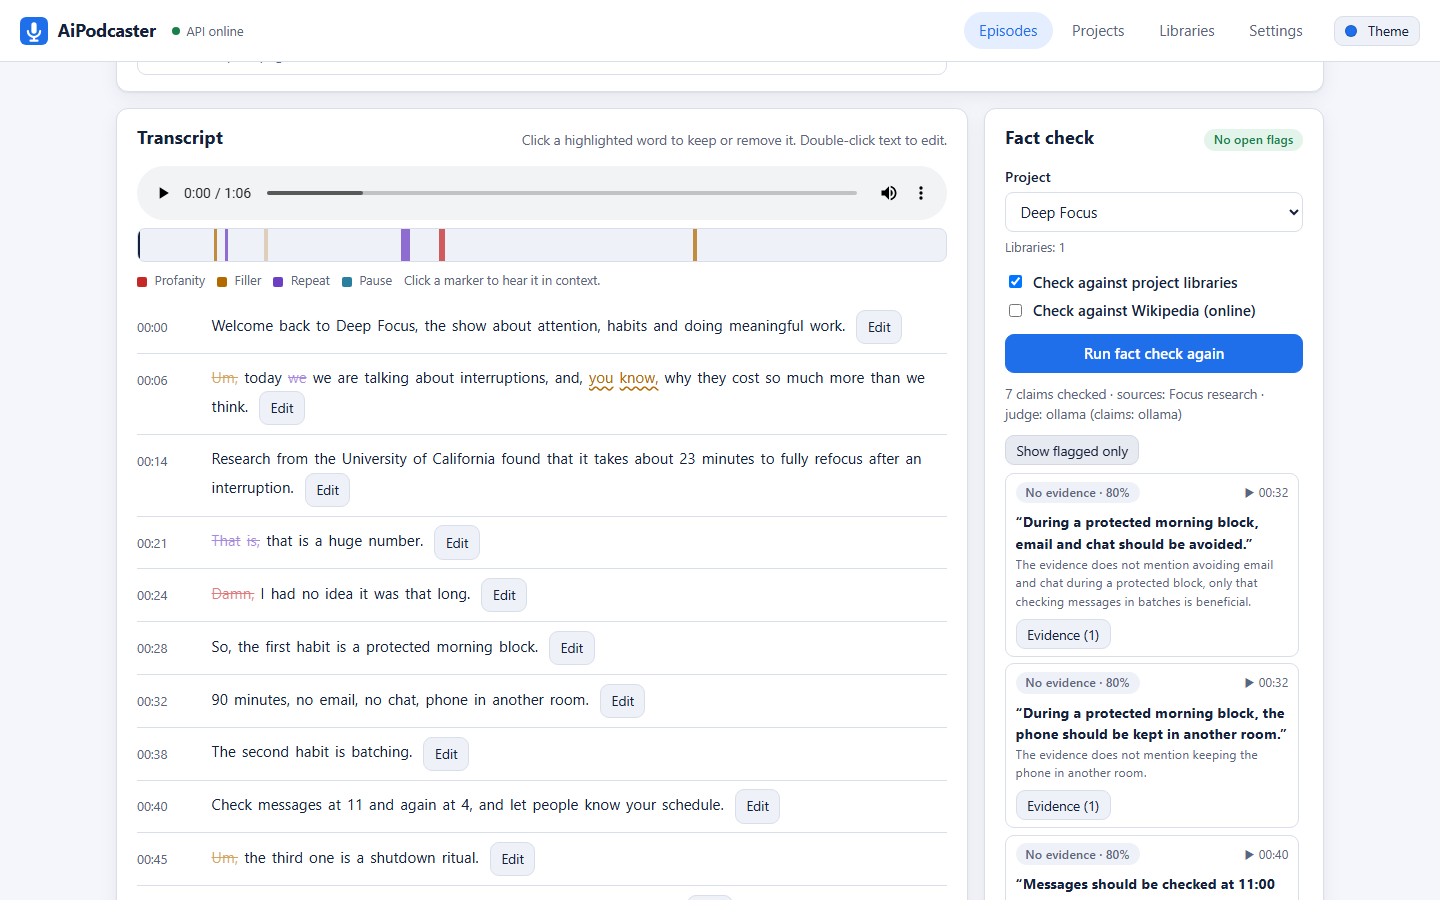
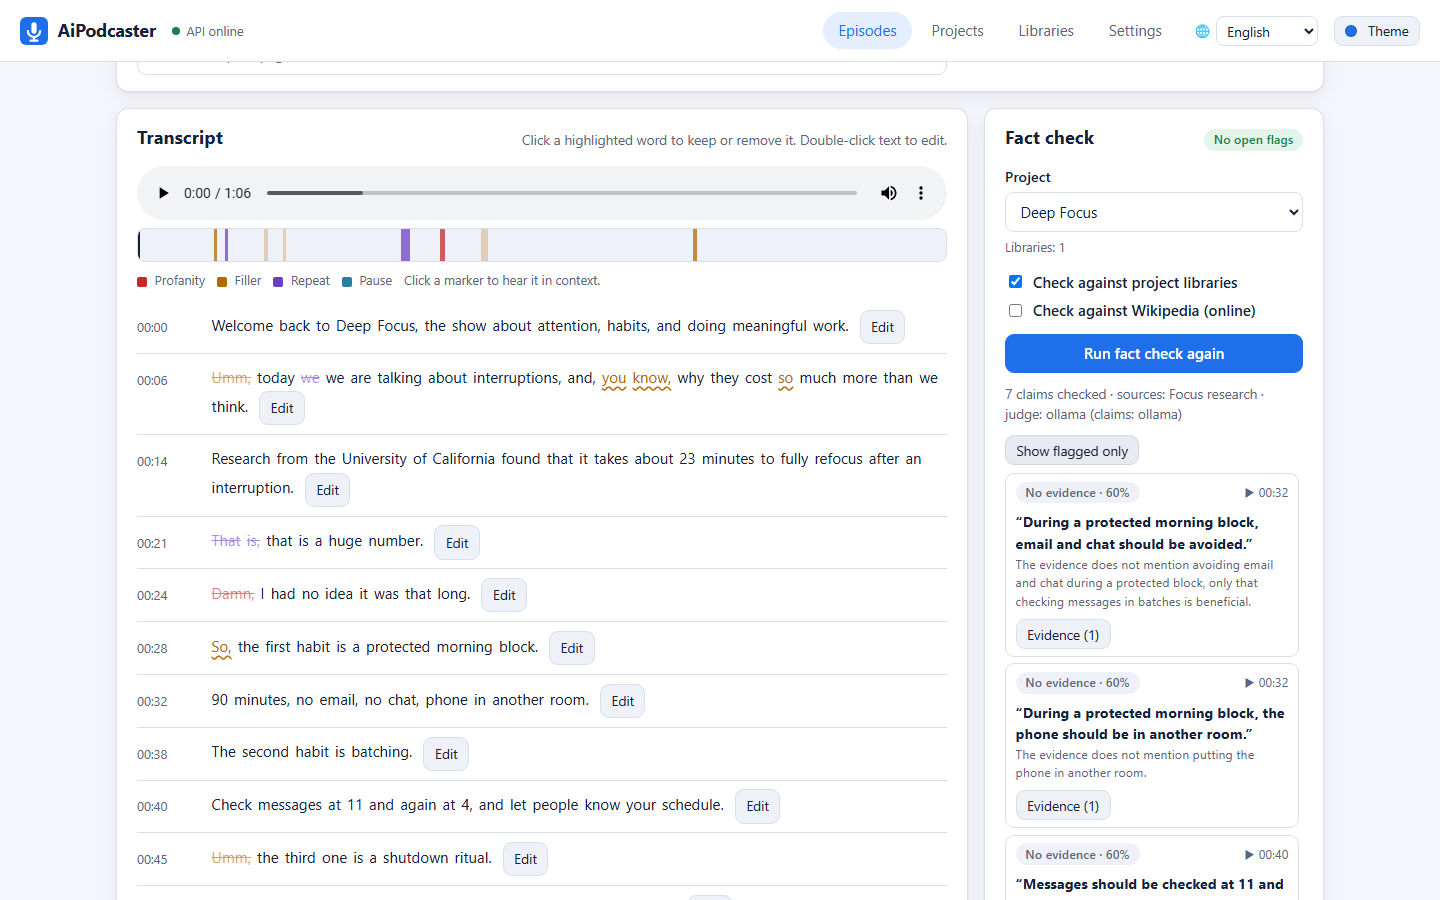
README: languages, LangGraph workflow, refreshed screenshots
- New sections and badges for interface languages and the checkpointed LangGraph workflow
- Quick start covers the language menu, project prompt, autosave and long-file estimates
- Screenshots recaptured from an isolated demo instance, plus the Russian interface

diff --git a/README.md b/README.md
@@ -14,6 +14,8 @@ Drop a raw recording or a transcript, get a cleaned, fact-checked, mastered epis
 [![TypeScript](https://img.shields.io/badge/TypeScript-5.9-3178c6.svg)](web/)
 [![Tests](https://img.shields.io/badge/tests-pytest%20%7C%20vitest%20%7C%20playwright-2f8a3d.svg)](docs/testing.md)
 [![Local first](https://img.shields.io/badge/local--first-Whisper%20%2B%20Ollama-6d3fc3.svg)](#providers)
+[![LangGraph](https://img.shields.io/badge/workflow-LangGraph%20checkpoints-1c3c3c.svg)](#how-it-works)
+[![i18n](https://img.shields.io/badge/UI-EN%20%C2%B7%20RU%20%C2%B7%20UK%20%C2%B7%20ES%20%C2%B7%20DE%20%C2%B7%20FR-e0592b.svg)](#languages)
 
 by **Geekatplay Studio** · Vladimir Chopine
 
@@ -66,6 +68,10 @@ Everything runs on your machine by default. Cloud models are optional, pluggable
     <td><img src="docs/screenshots/07-libraries.png" alt="Knowledge libraries" /><br /><sub><b>Knowledge libraries</b> · documents indexed into a local vector store</sub></td>
     <td><img src="docs/screenshots/09-settings.png" alt="Settings with Ollama card" /><br /><sub><b>Settings</b> · providers, Ollama auto-setup, publishing services, API keys</sub></td>
   </tr>
+  <tr>
+    <td><img src="docs/screenshots/10-russian.png" alt="Review workspace with the Russian interface" /><br /><sub><b>Six interface languages</b> · here in Russian, switchable from the header</sub></td>
+    <td><img src="docs/screenshots/08-projects.png" alt="Projects linking knowledge libraries" /><br /><sub><b>Projects</b> · each show picks its libraries and can inherit others</sub></td>
+  </tr>
 </table>
 
 ## Quick start
@@ -89,9 +95,9 @@ chmod +x scripts/*.sh
 ./scripts/stop.sh
 ```
 
-1. Open **Settings** once: pick a transcription provider (local Whisper works out of the box), optionally a language model (press *Prepare best model* under Ollama) and a speech provider.
-2. On **Episodes**, drop a recording, paste a link, point at a large file on disk, or paste a transcript.
-3. Review the proposals, run a fact check, approve.
+1. Pick your interface language from the 🌐 menu, then open **Settings** once: pick a transcription provider (local Whisper works out of the box), optionally a language model (press *Prepare best model* under Ollama) and a speech provider.
+2. On **Episodes**, drop a recording, paste a link, point at a large file on disk, or paste a transcript. Long recordings show an expected processing time first; you can close the tab while they run.
+3. File the episode into a project when asked, review the proposals (choices autosave), run a fact check, approve.
 4. Open **Publish & export**, generate the copy and artwork, publish.
 
 The full walkthrough is in the [user manual](docs/user-manual.md).
@@ -99,14 +105,17 @@ The full walkthrough is in the [user manual](docs/user-manual.md).
 ## How it works
 
 ```
- upload / paste ─▶ ingest ─▶ transcribe ─▶ propose edits ─▶ REVIEW & APPROVE ─▶ render ─▶ publish kit ─▶ publish
-                  FFprobe    Whisper or     fillers, repeats,  you decide every   FFmpeg cuts   captions, notes   website, WordPress,
-                  magic      OpenAI;        profanity, pauses, cut; fact check    + loudnorm,   chapters, RSS,    Buzzsprout, Transistor,
-                  bytes      text formats   show notes         against libraries  or TTS        report, zip       manual checklists
+ upload / link / paste ─▶ ingest ─▶ transcribe ─▶ propose edits ─▶ ⏸ REVIEW & APPROVE ─▶ render ─▶ publish kit ─▶ publish
+                          FFprobe    Whisper or     fillers, repeats,   you decide every    FFmpeg cuts   captions, notes   website, WordPress,
+                          magic      OpenAI,        profanity, pauses,  cut; fact check     + loudnorm,   chapters, RSS,    Buzzsprout, Transistor,
+                          bytes      verbatim       show notes          against libraries   or TTS        report, zip       manual checklists
+          └──────────────── LangGraph workflow · checkpoint after every step · resumes after a restart ────────────────┘
 ```
 
-- **Backend** `backend/` – FastAPI. Services for audio (FFmpeg, fixed argv), transcription, analysis, language models, speech, RAG (parsing, ChromaDB index, claims, verification), statistics, publishing connectors and an MCP server. Jobs persist as JSON per episode under `data/`.
-- **Web** `web/` – React 19 + TypeScript on Vite 8. No UI framework; hand-written components, dependency-free SVG charts, CSS variables for themes.
+The review step is a real LangGraph human-in-the-loop interrupt: the graph pauses until you approve. Checkpoints live in `data/checkpoints.sqlite`, so a server restart continues a three-hour transcription instead of starting it again.
+
+- **Backend** `backend/` – FastAPI. LangGraph workflow over services for audio (FFmpeg, fixed argv), transcription, language-aware analysis, language models, speech, RAG (parsing, ChromaDB index, claims, verification), statistics, publishing connectors and an MCP server. Jobs persist as JSON per episode under `data/`.
+- **Web** `web/` – React 19 + TypeScript on Vite 8. No UI framework; hand-written components, dependency-free SVG charts, CSS variables for themes, i18next with lazily loaded locales, debounced autosave.
 - **Security** – sanitised names, UUID-only paths, size and duration limits, magic-byte checks, output allow-list, CORS, security headers, server-side secrets with masking, optional API keys for external access.
 
 More detail: [architecture](docs/architecture.md) · [testing strategy](docs/testing.md) · [website connector contract](docs/website-connector/README.md).
@@ -123,6 +132,16 @@ More detail: [architecture](docs/architecture.md) · [testing strategy](docs/tes
 | Fact-check sources | your libraries | Wikipedia |
 
 Keys live in `data/settings.json` on the server and are only ever shown masked. Environment variables (`OPENAI_API_KEY`, `ANTHROPIC_API_KEY`, `GEMINI_API_KEY`, `ELEVENLABS_API_KEY`, `DESCRIPT_API_KEY`) work as fallbacks.
+
+## Languages
+
+| | |
+| --- | --- |
+| **Interface** | English, Русский, Українська, Español, Deutsch, Français. Every key is checked in every language by `npm run i18n:check`. |
+| **Spoken language** | Detected per recording (or per pasted text) and overridable per episode; show notes, publish copy and fact-check explanations follow it, and Wikipedia checks use the matching edition. |
+| **Verbatim transcription** | Whisper is prompted in the episode's language to keep hesitations it would otherwise drop, so they can be cut from the audio. |
+| **Fillers** | Interjections per language (*um, uh* · *э, эм, хм* · *euh* · *äh, ähm* · *eh, este*), stretched sounds in any language (*Aaaa, hmmm, eeee, ммм, а-а-а, euuuh*) and context-dependent words (*like* · *ну, как бы* · *o sea* · *du coup*), which are suggested but not pre-selected. |
+| **Profanity** | Word lists for English, Spanish, German, French, Italian, Portuguese, Dutch and Polish; anchored stem patterns for Russian and Ukrainian that catch inflected forms without flagging look-alikes such as «рубля». |
 
 ## API and MCP
 
@@ -157,6 +176,8 @@ Tools include `upload_recording`, `get_job`, `edit_transcript`, `approve_and_ren
 .\scripts\test.ps1 -E2E       # + Playwright browser flows (own ports, safe while the app runs)
 .\scripts\test.ps1 -Mutation  # + mutmut on the deterministic modules
 ```
+
+`npm run check` in `web/` runs lint, type checks, the translation key check and unit tests.
 
 ## Project layout
 
